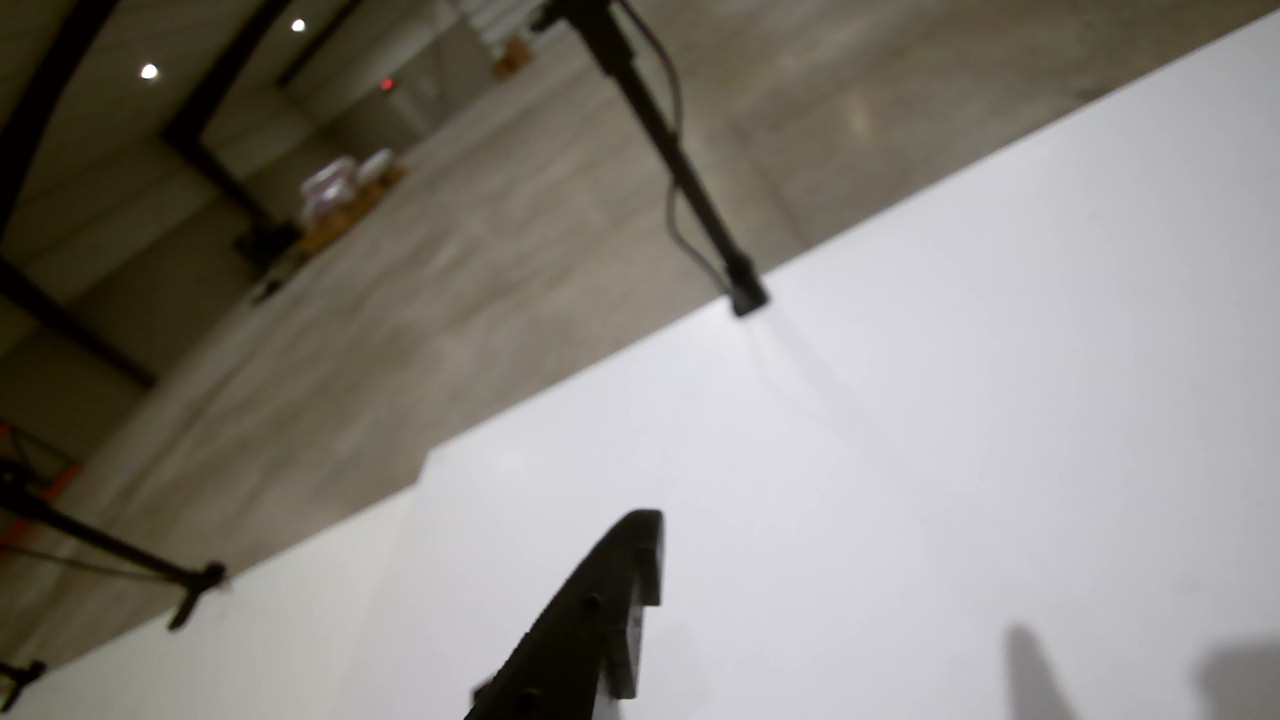
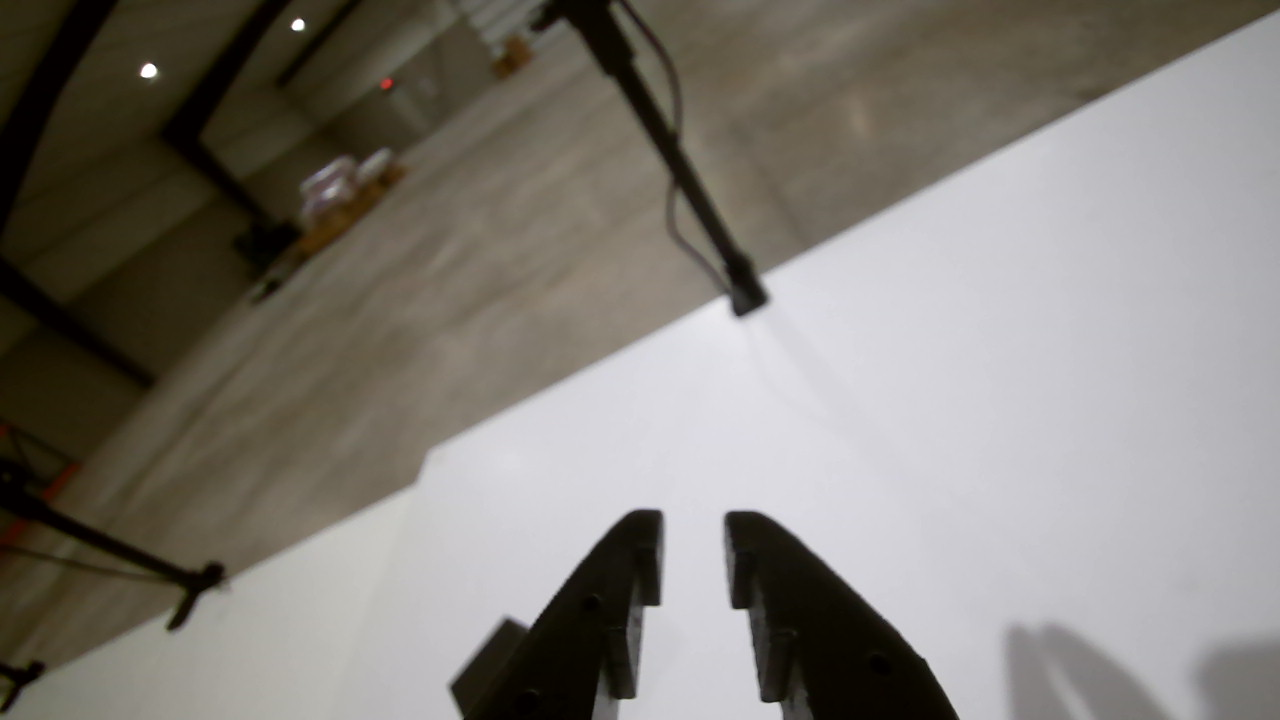
Update tools for arm-007__gpt-6-astra__grasp-cube
{"agent_id": "arm-007__gpt-6-astra__grasp-cube", "designation": "arm-007", "identity_version": 2, "model": "gpt-6-astra", "provider": "codex", "task_definition": {"description": "Start episode, pickup the black cube, bring black cube to home position, confirm successful grasp, stop episode, return object to new position, return home, repeat", "id": "grasp-cube", "success_criteria": ["successful episode coverage across the entire workspace", "achieve at least 50 successful episodes an hour"], "version": 2}, "task_id": "grasp-cube", "task_sha256": "e6c8adbb1562fdc6af3405e2e618046b110e27856c520c9f5cd329c258fb3818", "task_version": 2, "tools_sha256": "2fd729e9009aee07a14d9e4713ba361274a4187b01290d66541330ef5ef1463c"}

diff --git a/agents/arm-007__gpt-6-astra__grasp-cube/cube_grip.py b/agents/arm-007__gpt-6-astra__grasp-cube/cube_grip.py
@@ -8,8 +8,8 @@ with c.connected_bus(recording.serial_port()) as b:
   time.sleep(.1)
   actual=b.read('Present_Position','gripper')
   if actual-goal>1.3:
-   b.write('Goal_Position','gripper',actual-.35)
-   print('contact',actual,'hold',actual-.35,flush=True)
+   b.write('Goal_Position','gripper',actual-1.0)
+   print('contact',actual,'hold',actual-1.0,flush=True)
    break
  else:print('no contact',flush=True)
  time.sleep(.3)
